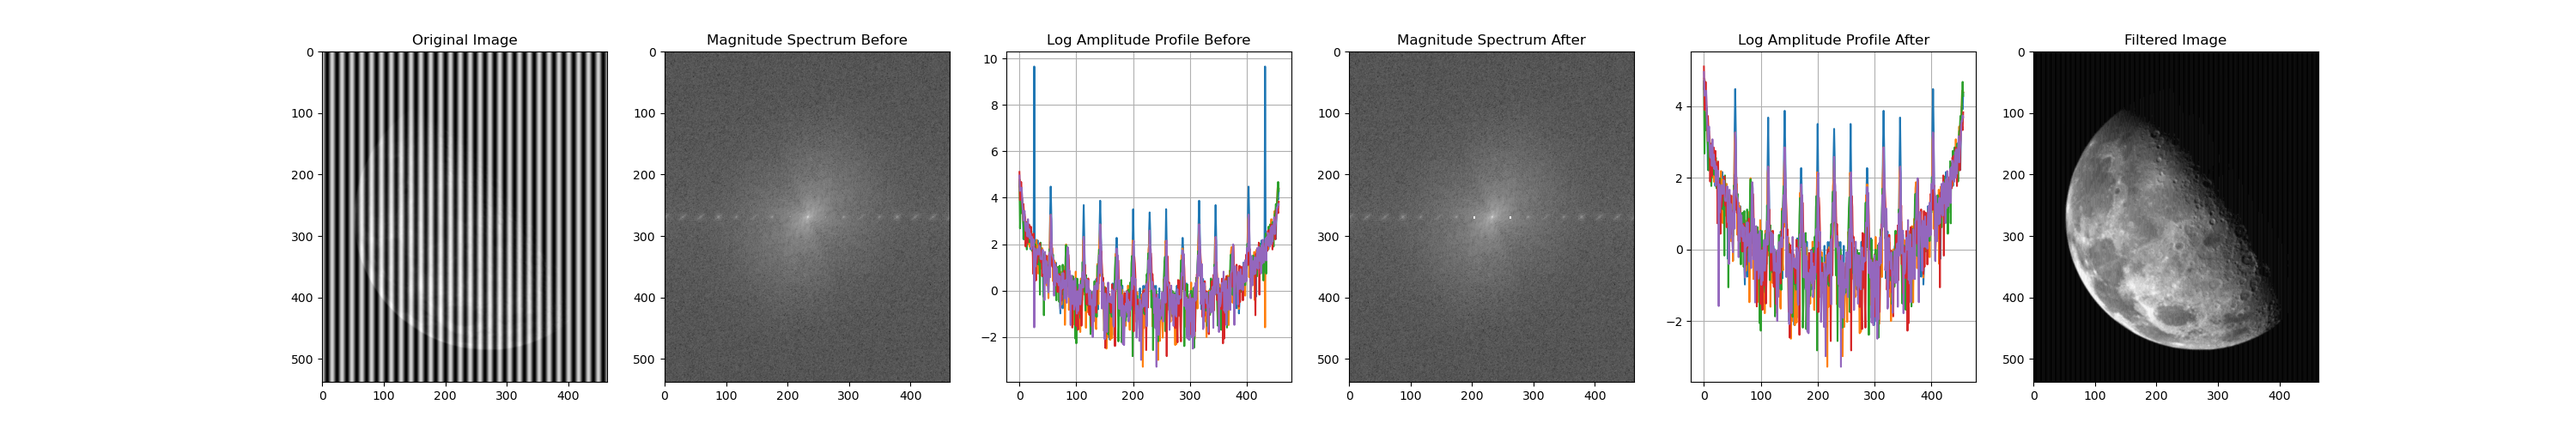
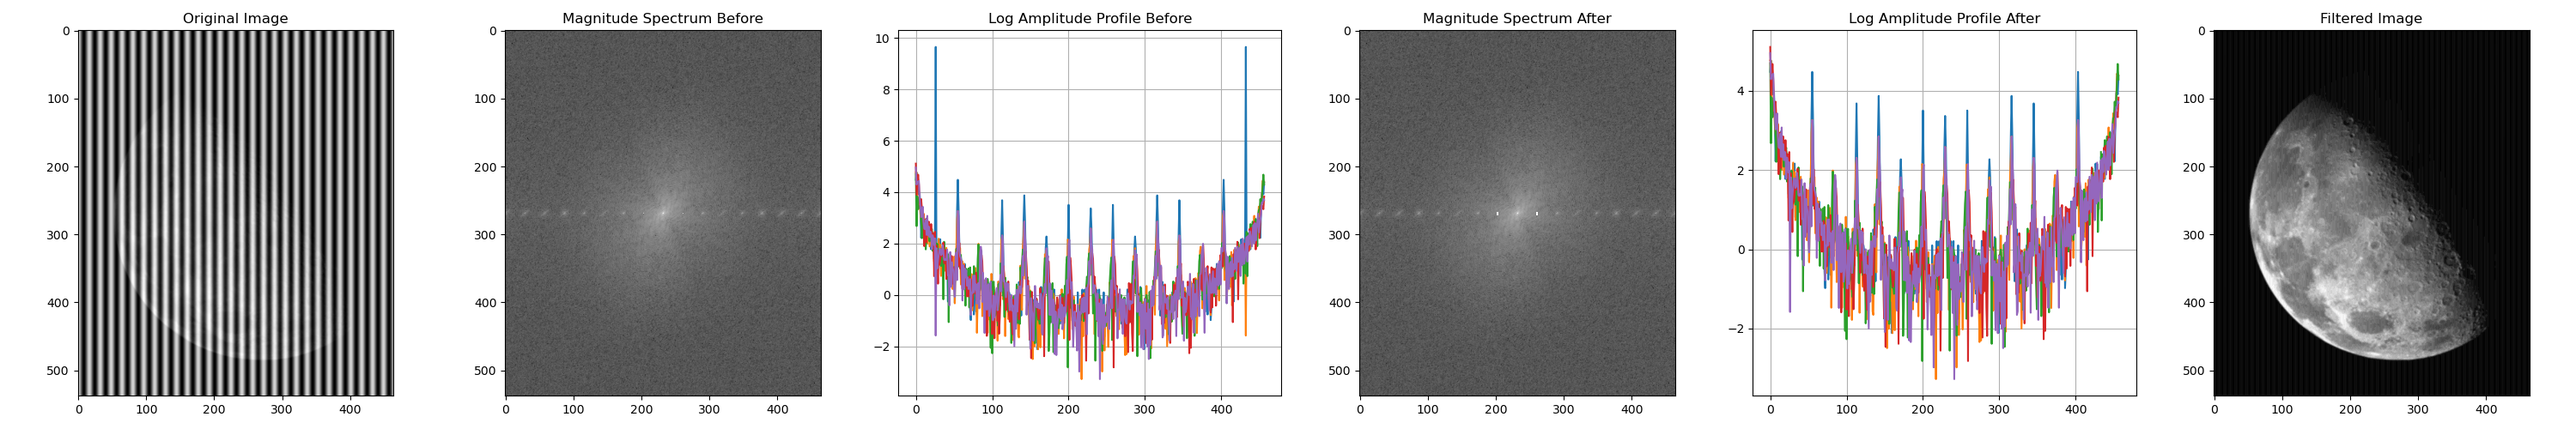
done task 4d

diff --git a/src/task4c.py b/src/task4c.py
@@ -13,17 +13,17 @@ if __name__ == "__main__":
     im = utils.read_im(impath)
 
     # Fourier transform 
-    f = np.fft.fft2(im)
-    magnitude_spectrum_before = 20*np.log(np.abs(np.fft.fftshift(f)))
+    im_fft = np.fft.fft2(im)
+    magnitude_spectrum_before = 20*np.log(np.abs(np.fft.fftshift(im_fft)))
 
     # Create masks to manually remove peaks
-    top = f[0:3, 3:-(3+1)] 
-    bottom = f[-2:, 3:-(3+1)] 
+    top = im_fft[0:3, 3:-(3+1)] 
+    bottom = im_fft[-2:, 3:-(3+1)] 
 
-    top_2 = f[0:3, 446:-(3+1)] 
-    bottom_2 = f[-2:, 446:-(3+1)] 
-    top_3 = f[0:3, 3:13] 
-    bottom_3 = f[-2:, 3:13] 
+    top_2 = im_fft[0:3, 446:-(3+1)] 
+    bottom_2 = im_fft[-2:, 446:-(3+1)] 
+    top_3 = im_fft[0:3, 3:13] 
+    bottom_3 = im_fft[-2:, 3:13] 
 
     threshold = 9.0 
     # threshold_2 = 4.0 
@@ -45,10 +45,10 @@ if __name__ == "__main__":
     log_amplitude_bottom_after = np.log(np.absolute(bottom[0:3,:])).T
 
     # Magnitude spectrum after modifications
-    magnitude_spectrum_after = 20*np.log(np.abs(np.fft.fftshift(f)))
+    magnitude_spectrum_after = 20*np.log(np.abs(np.fft.fftshift(im_fft)))
 
     # Inverse FFT for filtered image
-    im_filtered = utils.normalize(np.fft.ifft2(f).real)
+    im_filtered = utils.normalize(np.fft.ifft2(im_fft).real)
 
     # gaussian_kernel = np.array([
     #        [1, 4, 6, 4, 1],

diff --git a/src/task4d.py b/src/task4d.py
@@ -27,9 +27,15 @@ def create_binary_image(im):
     """
 
     # START YOUR CODE HERE ### (You can change anything inside this block)
-    binary_im = np.zeros_like(im, dtype=np.bool)
-    ### END YOUR CODE HERE ###
-    return binary_im
+    fft = np.fft.fft2(im)
+    fftshift = np.fft.fftshift(fft)
+    magnitude_spectrum = 20 * np.log(np.abs(fftshift))
+    # plt.imshow(magnitude_spectrum)
+    # plt.show()
+    threshold = (magnitude_spectrum.min() + magnitude_spectrum.max() ) / 2.0 # this seems to do alright
+    binary_im = magnitude_spectrum > threshold
+
+    return binary_im.astype(np.bool_)
 
 
 if __name__ == "__main__":
@@ -41,7 +47,7 @@ if __name__ == "__main__":
     for i, impath in enumerate(impaths):
         im = utils.read_im(str(impath))
         im_binary = create_binary_image(im)
-        assert im_binary.dtype == np.bool,            f"Expected the image to be of dtype np.bool, got {im_binary.dtype}"
+        assert im_binary.dtype == np.bool_,            f"Expected the image to be of dtype np.bool_, got {im_binary.dtype}"
         angles, distances = utils.find_angle(im_binary)
         angle = 0
         if len(angles) > 0:

diff --git a/README.md b/README.md
@@ -438,8 +438,28 @@ Implement this in the file task4c.py/task4c.ipynb.
 
 **Question:**
 
+Now we will create a function to automatically find the rotation of scanned documents, such
+that we can align the text along the horizontal axis.
 
+You will use the frequency domain to extract a binary image which draws a rough line describing
+the rotation of each document. From this, we can use a Hough transform to find a straight line
+intersecting most of the points in the binary image. When we have this line, we can easily find the
+rotation of the line and the document.
+
+Your task is to generate the binary image by using the frequency spectrum. See Figure 6 which
+shows you what to expect. We’ve implemented most of the code for you in this task; you only need
+to alter the function create_binary_image in task4d.py/task4.ipynb.
+Include the generated image in your report.
 
 **Answer:**
 
+[Figure 10](#figure-10) shows the result of the algorithm. 
 
+<h3 align="center">Task 4d Finding Orientation with Thresholded Fourier Magnitude Spectrum</h3>
+<a name="figure-9"></a>
+<p align="center">
+    <img src="https://github.com/Jesperoka/tdt4195/blob/assignment_5/src/image_processed/task4d.png?raw=true" width=600>
+</p>
+<p align="center"><b>Figure 10: </b>Orientation finding algorithm by way of line fitting to Fourier magnitude spectrum.</p>
+
+<h3 align="left">d)</h3>
